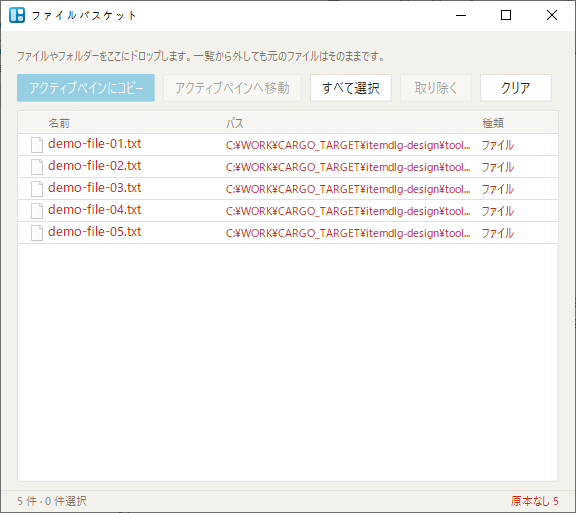
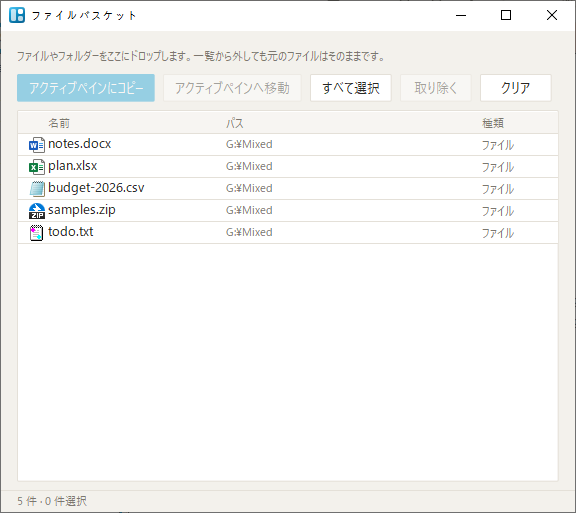
docs: retake basket and folder-watch shots on live G: paths
v0.3.1 stills for en, ko, and ja show the five Mixed demo files and Photos 2026 while it is being watched. The feature capture script seeds those paths from MAGURO_DEMO_ROOT and stops if any of them is missing.

diff --git a/docs/CAPTURES.md b/docs/CAPTURES.md
@@ -127,15 +127,15 @@ servers.png / servers.ko.png / servers.ja.png 는 **실제 호스트·자격 증
 | favorites.ja.png | 즐겨찾기 | MaguroMain 사이드바 | light/ja | favorites 시드 | 227452 B (1206×813) | capture-main.ps1 | DWM |  |
 | favorites.ko.png | 즐겨찾기 | MaguroMain 사이드바 | light/ko | favorites 시드 | 224586 B (1206×813) | capture-main.ps1 | DWM |  |
 | favorites.png | 즐겨찾기 | MaguroMain 사이드바 | light/en | favorites 시드 | 224434 B (1206×813) | capture-main.ps1 | DWM |  |
-| feature_basket.ja.png | 파일 바구니 | MaguroBasket | light/ja | G:\Mixed 데모 5개 파일 | 18486 B (574×511) | capture-features.ps1 (WM_COMMAND 1125) | DWM | **2026-11-13 재촬영.** 이전 v8은 v7 복사(546×513, 경로 C:\WORK\pgtest\demo-253, クリア가 둘째 줄). 현재 창은 590 DIP이라 버튼 5개가 한 줄 |
-| feature_basket.ko.png | 파일 바구니 | MaguroBasket | light/ko | G:\Mixed 데모 5개 파일 | 15382 B (574×511) | capture-features.ps1 (WM_COMMAND 1125) | DWM | **2026-11-13 재촬영.** 이전 v8은 v7 복사(546×513, 경로 C:\WORK\pgtest\demo-253) |
-| feature_basket.png | 파일 바구니 | MaguroBasket | light/en | G:\Mixed demo files (5) | 14799 B (574×511) | capture-features.ps1 (WM_COMMAND 1125) | DWM | **Retaken 2026-11-13.** Previous v8 was a v7 copy (546×513, path C:\WORK\pgtest\demo-253, Clear wrapped to a second row). Current window is 590 DIP so all five footer buttons fit on one row |
+| feature_basket.ja.png | 파일 바구니 | MaguroBasket | light/ja | G:\Mixed 데모 5개 파일 | 18858 B (576×513) | capture-features.ps1 (WM_COMMAND 1125) | DWM, 1px 테두리 유지 | **2026-11-19 v0.3.1 재촬영.** `docs/images-v10/ja/feature_basket.png`. notes.docx, plan.xlsx, budget-2026.csv, samples.zip, todo.txt. 이름 검정, 경로 `G:\Mixed`, 푸터 `5 件 · 0 件選択` |
+| feature_basket.ko.png | 파일 바구니 | MaguroBasket | light/ko | G:\Mixed 데모 5개 파일 | 15787 B (576×513) | capture-features.ps1 (WM_COMMAND 1125) | DWM, 1px 테두리 유지 | **2026-11-19 v0.3.1 재촬영.** `docs/images-v10/ko/feature_basket.png`. 이름 검정, 경로 `G:\Mixed`, 푸터 `5개 항목 · 0개 선택` |
+| feature_basket.png | 파일 바구니 | MaguroBasket | light/en | G:\Mixed demo files (5) | 15179 B (576×513) | capture-features.ps1 (WM_COMMAND 1125) | DWM, 1px frame kept | **Retaken 2026-11-19 (v0.3.1).** `docs/images-v10/en/feature_basket.png`. notes.docx, plan.xlsx, budget-2026.csv, samples.zip, todo.txt. Black names, paths `G:\Mixed`, footer `5 items · 0 selected` |
 | feature_excel_readonly_tidy.ja.png | Excel 정리 | MaguroExcelTidy | light/ja | readme-excel-demo sheet.xlsx | 7672 B (422×244) | 컨텍스트 메뉴 id=0x8007 (PR #312 shared UI) | DWM | images-v4 재촬영 |
 | feature_excel_readonly_tidy.ko.png | Excel 정리 | MaguroExcelTidy | light/ko | readme-excel-demo sheet.xlsx | 5797 B (422×244) | 컨텍스트 메뉴 id=0x8007 (PR #312 shared UI) | DWM | images-v4 재촬영 |
 | feature_excel_readonly_tidy.png | Excel 정리 | MaguroExcelTidy | light/en | readme-excel-demo sheet.xlsx | 6217 B (422×244) | 컨텍스트 메뉴 id=0x8007 (PR #312 shared UI) | DWM | images-v4 재촬영 |
-| feature_folder_watch.ja.png | 폴더 감시 | MaguroWatch | light/ja | 데모 | 20342 B (746×433) | capture-features.ps1 | DWM |  |
-| feature_folder_watch.ko.png | 폴더 감시 | MaguroWatch | light/ko | 데모 | 16051 B (746×433) | capture-features.ps1 | DWM |  |
-| feature_folder_watch.png | 폴더 감시 | MaguroWatch | light/en | 데모 | 15631 B (746×433) | capture-features.ps1 | DWM |  |
+| feature_folder_watch.ja.png | 폴더 감시 | MaguroWatch | light/ja | G:\Photos 2026, 하위 폴더 포함 | 16668 B (746×433) | capture-features.ps1 | DWM, 1px 테두리 유지 | **2026-11-19 v0.3.1 재촬영.** `docs/images-v10/ja/feature_folder_watch.png`. 상태 `監視中`, 경로 `G:\`, 일시 중지 아님 |
+| feature_folder_watch.ko.png | 폴더 감시 | MaguroWatch | light/ko | G:\Photos 2026, 하위 폴더 포함 | 12910 B (746×433) | capture-features.ps1 | DWM, 1px 테두리 유지 | **2026-11-19 v0.3.1 재촬영.** `docs/images-v10/ko/feature_folder_watch.png`. 상태 `감시 중`, 경로 `G:\`, 일시 중지 아님 |
+| feature_folder_watch.png | 폴더 감시 | MaguroWatch | light/en | G:\Photos 2026, subfolders on | 12949 B (746×433) | capture-features.ps1 | DWM, 1px frame kept | **Retaken 2026-11-19 (v0.3.1).** `docs/images-v10/en/feature_folder_watch.png`. Status `Watching`, path `G:\`, not paused |
 | feature_win_shift_v.ja.png | Win+Alt+V | MaguroMain 새 탭 | light/ja | 클립보드=Photos 2026 경로 | 77961 B (1204×811) | WM_HOTKEY CLIP_HOTKEY_ID=3 | DWM | Photos 2026 새 탭. fav_panel+tree_panel 시드. 기본 핫키는 Alt+Z라 스크립트의 Win+Alt+V 대신 WM_HOTKEY id=3을 씀 |
 | feature_win_shift_v.ko.png | Win+Alt+V | MaguroMain 새 탭 | light/ko | 클립보드=Photos 2026 경로 | 74832 B (1204×811) | WM_HOTKEY CLIP_HOTKEY_ID=3 | DWM | Photos 2026 새 탭. fav_panel+tree_panel 시드. 기본 핫키는 Alt+Z라 스크립트의 Win+Alt+V 대신 WM_HOTKEY id=3을 씀 |
 | feature_win_shift_v.png | Win+Alt+V | MaguroMain 새 탭 | light/en | 클립보드=Photos 2026 경로 | 74787 B (1204×811) | WM_HOTKEY CLIP_HOTKEY_ID=3 | DWM | Photos 2026 새 탭. fav_panel+tree_panel 시드. 기본 핫키는 Alt+Z라 스크립트의 Win+Alt+V 대신 WM_HOTKEY id=3을 씀 |
@@ -247,8 +247,8 @@ powershell -NoProfile -ExecutionPolicy Bypass -File docs\capture\capture-main.ps
 
 버튼·카드·검색 칸이 공유 토큰으로 바뀌었다. 아래 캡처는 다시 찍는다.
 
-- `feature_folder_watch.png`, `feature_folder_watch.ko.png`, `feature_folder_watch.ja.png`
-- `feature_basket.png`, `feature_basket.ko.png`, `feature_basket.ja.png` — **2026-11-13 재촬영 완료** (아래 변경 이력)
+- `feature_folder_watch.png`, `feature_folder_watch.ko.png`, `feature_folder_watch.ja.png` — **2026-11-19 v0.3.1 재촬영 완료** (아래 변경 이력)
+- `feature_basket.png`, `feature_basket.ko.png`, `feature_basket.ja.png` — **2026-11-19 v0.3.1 재촬영 완료** (아래 변경 이력)
 - `tab_list.png`
 - `rename.png`, `rename.ko.png`, `rename.ja.png`
 - `copy_progress.png`, `copy_progress.ko.png`, `copy_progress.ja.png` — 푸터 버튼이 28 DIP라 창 높이는 480×148. 위 표의 480×152는 재촬영 전 값이다.
@@ -258,6 +258,8 @@ powershell -NoProfile -ExecutionPolicy Bypass -File docs\capture\capture-main.ps
 시스템 대화상자(IFileOperation 진행, 탐색기 메뉴, 공통 파일 대화상자)는 그대로다. 이름 묻기, 즐겨찾기 관리, 정보, Excel, 확인 창, 그리고 팝업·알림(폴더 감시 토스트, 즐겨찾기 없음, 네트워크 실패, 빠른 복사 진행·이름 충돌, 세션 목록, 단축키, 레이아웃 고르기, 선택 칸, 서버 연결의 저장/취소)은 공유 토큰으로 옮겼다. 설정 창의 토글은 모양과 동작이 이전과 같다.
 
 ## 변경 이력 (관련)
+
+- **2026-11-19 (v0.3.1):** `docs/images-v10/{en,ko,ja}/feature_basket.png`와 `feature_folder_watch.png`만 다시 찍음. 포터블 0.3.1, 시드 `readme2-cfgs-v6`의 `hero_light.json`, `G:` → `C:\WORK\pgtest\MaguroDemo`. 바구니는 `G:\Mixed`의 notes.docx, plan.xlsx, budget-2026.csv, samples.zip, todo.txt (576×513, 이름 검정, 푸터에 선택 0). 폴더 감시는 `G:\Photos 2026`, 하위 폴더 포함, 일시 중지 아님, 상태 Watching / 감시 중 / 監視中 (746×433). 바깥 검은 여백만 잘라 1px 테두리를 남김(모서리 RGB 약 108,108,108). 바이트: en basket 15179, ko basket 15787, ja basket 18858, en watch 12949, ko watch 12910, ja watch 16668. `capture-features.ps1`의 바구니·감시 시드는 `MAGURO_DEMO_ROOT`(기본 `G:\`)이고, 그 경로가 없으면 스크립트가 중단한다. 이전 v0.3.0 샷은 디스크에 없던 `demo-253`·`demo-readme-watch` 경로였다.
 
 - **2026-11-19 (v0.3.0):** README·도움말(en/ko/ja)이 가리키는 스틸을 전부 `docs/images-v10/{en,ko,ja,common}/`에 다시 찍음. 메인 창은 명령 도구 모음이 보이므로 선별하지 않음. 시드는 `readme2-cfgs-v6`, 포터블 0.3.0, `G:` → `C:\WORK\pgtest\MaguroDemo`. 메인 창은 대체로 1206×813(1px 테두리 유지, 모서리 RGB 25,25,25). 보기 메뉴는 톱니 WM_COMMAND 207로 연 두 팝업만 흰 캔버스에 붙임(en 693×437, ko 575×437, ja 738×437). 새 샷: `toolbar_vertical.png`, `toolbar_horizontal.png`, `toolbar_editor.png`(562×650), `toolbar_toggle.png`(끔·켬 아이콘 열 합성, 켬은 강조색 아이콘만). `docs/images-v8/`과 `docs/images-v9/`는 그대로 둠. 데모 GIF/MP4(`docs/demo-*.gif`)는 이 패스에서 다시 찍지 않음. 다음 재촬영은 `docs/images-v11/`.
 
